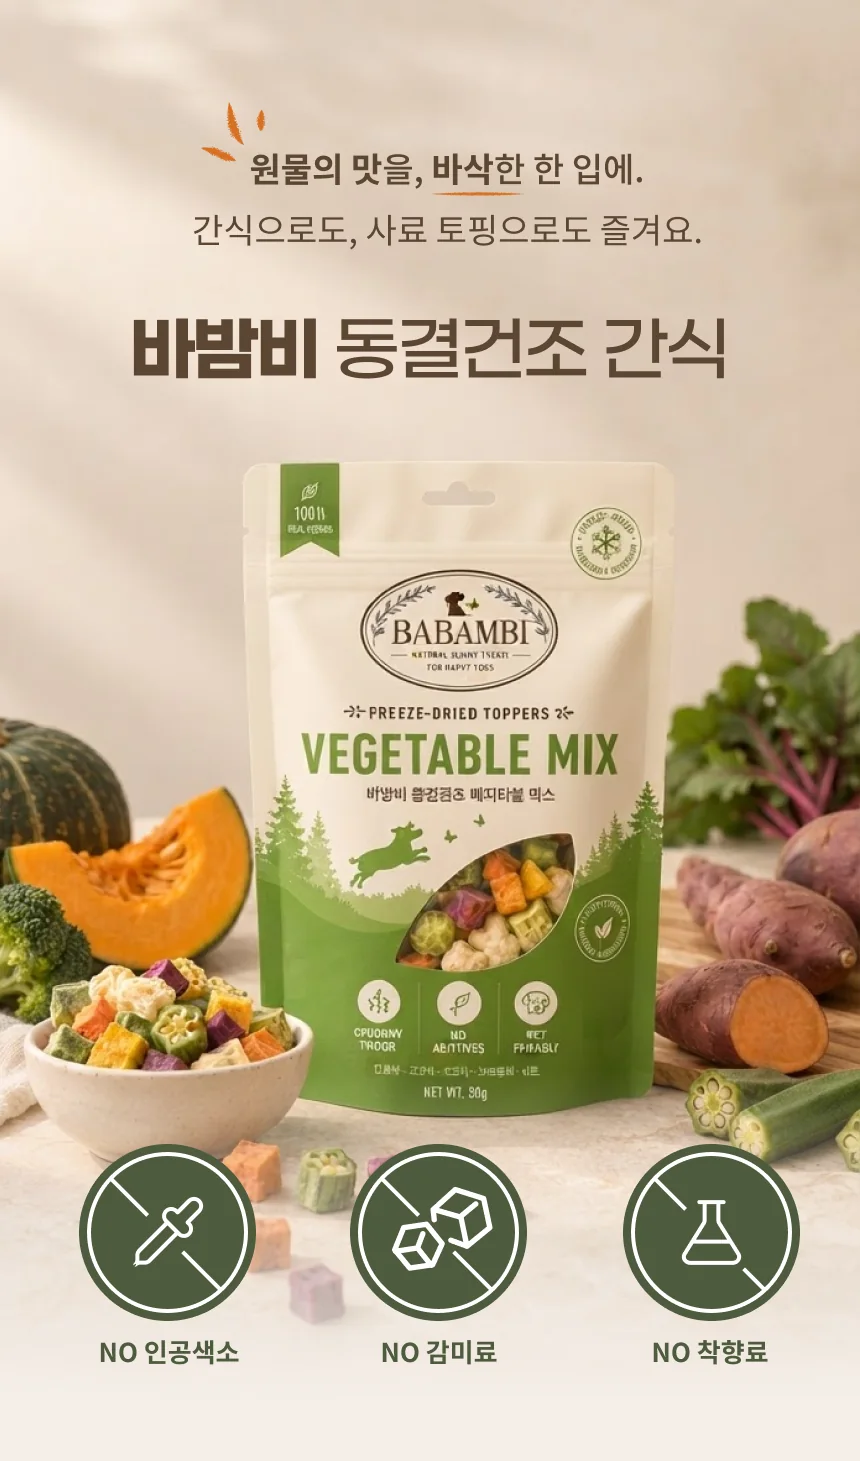
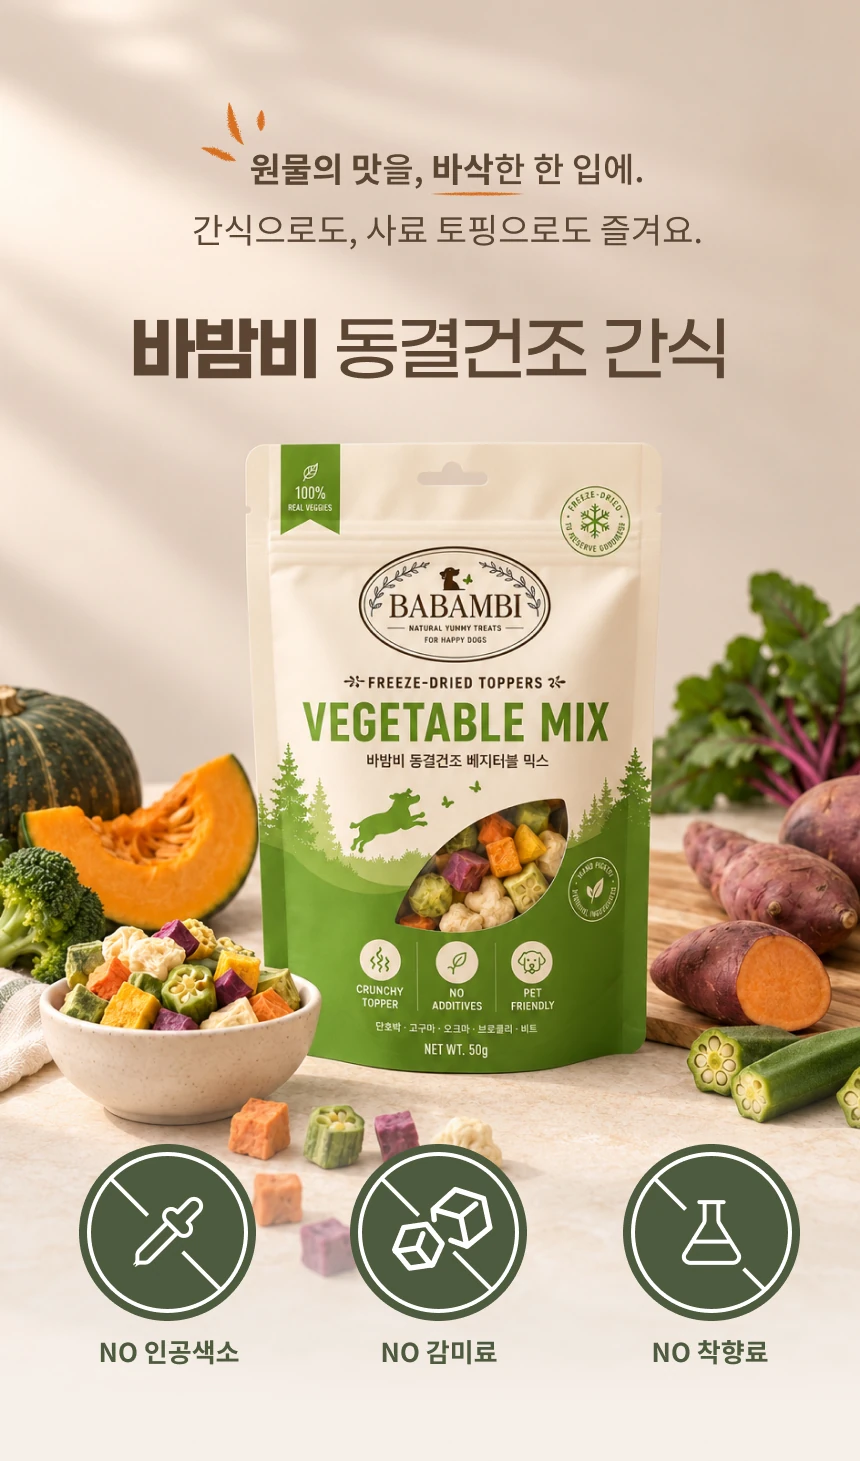
바밤비 디자인 히어로 교체, 쇼핑몰 프로젝트를 목록 앞으로, 4개 상세에 목표·결과 라벨 정리

Changed region(s): [[0.0, 0.308, 1.0, 0.924], [0.3023, 0.2772, 0.4233, 0.4312]]

diff --git a/index.html b/index.html
@@ -99,8 +99,30 @@
           <div class="work-list-view">
           <ol class="work-list">
             <li data-group="PRO">
-              <a class="work-row" href="work-ditoland.html" data-thumb="assets/cover-ditoland.webp">
+              <a class="work-row" href="work-13months.html" data-thumb="assets/cover-13months.webp">
                 <span class="wr-no">01</span>
+                <span class="wr-thumb" aria-hidden="true"><img src="assets/cover-13months.webp" alt="" loading="lazy" /></span>
+                <span class="wr-main"><span class="wr-name">13 MONTHS</span></span>
+                <span class="wr-org">Freelance</span>
+                <span class="wr-field">Branding · Cafe24</span>
+                <span class="wr-year">2026</span>
+                <span class="wr-go" aria-hidden="true">→</span>
+              </a>
+            </li>
+            <li data-group="SELF">
+              <a class="work-row" href="work-babambi.html" data-thumb="assets/babambi/cover_babambi.webp">
+                <span class="wr-no">02</span>
+                <span class="wr-thumb" aria-hidden="true"><img src="assets/babambi/cover_babambi.webp" alt="" loading="lazy" /></span>
+                <span class="wr-main"><span class="wr-name">BABAMBI</span><span class="wr-purpose">브랜드 런칭 전 과정</span></span>
+                <span class="wr-org">Personal</span>
+                <span class="wr-field">Branding · SNS Content</span>
+                <span class="wr-year">2026</span>
+                <span class="wr-go" aria-hidden="true">→</span>
+              </a>
+            </li>
+            <li data-group="PRO">
+              <a class="work-row" href="work-ditoland.html" data-thumb="assets/cover-ditoland.webp">
+                <span class="wr-no">03</span>
                 <span class="wr-thumb" aria-hidden="true"><img src="assets/cover-ditoland.webp" alt="" loading="lazy" /></span>
                 <span class="wr-main"><span class="wr-name">DITOLAND</span></span>
                 <span class="wr-org">UTPLUS</span>
@@ -111,7 +133,7 @@
             </li>
             <li data-group="PRO">
               <a class="work-row" href="work-ont-kiosk.html" data-thumb="assets/cover-ont.webp">
-                <span class="wr-no">02</span>
+                <span class="wr-no">04</span>
                 <span class="wr-thumb" aria-hidden="true"><img src="assets/cover-ont.webp" alt="" loading="lazy" /></span>
                 <span class="wr-main"><span class="wr-name">ONT KIOSK</span></span>
                 <span class="wr-org">RTBS</span>
@@ -122,7 +144,7 @@
             </li>
             <li data-group="PRO">
               <a class="work-row" href="work-kiosk.html" data-thumb="assets/cover-navyz.webp">
-                <span class="wr-no">03</span>
+                <span class="wr-no">05</span>
                 <span class="wr-thumb" aria-hidden="true"><img src="assets/cover-navyz.webp" alt="" loading="lazy" /></span>
                 <span class="wr-main"><span class="wr-name">KIOSK SYSTEM</span></span>
                 <span class="wr-org">RTBS</span>
@@ -133,7 +155,7 @@
             </li>
             <li data-group="PRO">
               <a class="work-row" href="work-orderweb.html" data-thumb="assets/cover-tomntoms.webp">
-                <span class="wr-no">04</span>
+                <span class="wr-no">06</span>
                 <span class="wr-thumb" aria-hidden="true"><img src="assets/cover-tomntoms.webp" alt="" loading="lazy" /></span>
                 <span class="wr-main"><span class="wr-name">ORDER WEB</span></span>
                 <span class="wr-org">RTBS</span>
@@ -144,7 +166,7 @@
             </li>
             <li data-group="PRO">
               <a class="work-row" href="work-nz-system.html" data-thumb="assets/cover-nz.webp">
-                <span class="wr-no">05</span>
+                <span class="wr-no">07</span>
                 <span class="wr-thumb" aria-hidden="true"><img src="assets/cover-nz.webp" alt="" loading="lazy" /></span>
                 <span class="wr-main"><span class="wr-name">NZ SYSTEM</span></span>
                 <span class="wr-org">RTBS</span>
@@ -153,35 +175,13 @@
                 <span class="wr-go" aria-hidden="true">→</span>
               </a>
             </li>
-            <li data-group="PRO">
-              <a class="work-row" href="work-13months.html" data-thumb="assets/cover-13months.webp">
-                <span class="wr-no">06</span>
-                <span class="wr-thumb" aria-hidden="true"><img src="assets/cover-13months.webp" alt="" loading="lazy" /></span>
-                <span class="wr-main"><span class="wr-name">13 MONTHS</span></span>
-                <span class="wr-org">Freelance</span>
-                <span class="wr-field">Branding · Cafe24</span>
-                <span class="wr-year">2026</span>
-                <span class="wr-go" aria-hidden="true">→</span>
-              </a>
-            </li>
             <li data-group="SELF">
               <a class="work-row" href="work-unsu.html" data-thumb="assets/cover-unsu.webp">
-                <span class="wr-no">07</span>
+                <span class="wr-no">08</span>
                 <span class="wr-thumb" aria-hidden="true"><img src="assets/cover-unsu.webp" alt="" loading="lazy" /></span>
                 <span class="wr-main"><span class="wr-name">UNSU</span><span class="wr-purpose">재방문 서비스 기획</span></span>
                 <span class="wr-org">Personal</span>
                 <span class="wr-field">Service Planning · Mobile Web App</span>
-                <span class="wr-year">2026</span>
-                <span class="wr-go" aria-hidden="true">→</span>
-              </a>
-            </li>
-            <li data-group="SELF">
-              <a class="work-row" href="work-babambi.html" data-thumb="assets/babambi/cover_babambi.webp">
-                <span class="wr-no">08</span>
-                <span class="wr-thumb" aria-hidden="true"><img src="assets/babambi/cover_babambi.webp" alt="" loading="lazy" /></span>
-                <span class="wr-main"><span class="wr-name">BABAMBI</span><span class="wr-purpose">브랜드 런칭 전 과정</span></span>
-                <span class="wr-org">Personal</span>
-                <span class="wr-field">Branding · SNS Content</span>
                 <span class="wr-year">2026</span>
                 <span class="wr-go" aria-hidden="true">→</span>
               </a>

diff --git a/work-babambi.html b/work-babambi.html
@@ -53,7 +53,7 @@
 
       <section class="case-brief" aria-label="프로젝트 개요">
         <div class="brief-cell">
-          <h2>Overview</h2>
+          <h2>Goal</h2>
           <p>
             반려동물 간식이라는 포화된 시장에서, 제품이 아니라 &lsquo;먹이는 사람의
             마음&rsquo;을 앞에 두는 브랜드로 만들었습니다.
@@ -67,11 +67,11 @@
           </p>
         </div>
         <div class="brief-cell">
-          <h2>Build</h2>
+          <h2>Result</h2>
           <p>
-            랜딩 · 브랜드 스토리 · 제품 목록 · 제품 상세 · 레시피 · 이벤트 섹션.
-            한 페이지에서 스크롤로 이어지는 구조로 만들었습니다.
-            스토어 문의를 처리하는 CS 대시보드도 따로 만들었습니다.
+            랜딩 · 브랜드 스토리 · 제품 목록 · 제품 상세 · 레시피 · 이벤트 섹션을
+            한 페이지에서 스크롤로 이어지게 완성했고, 스토어 문의를 처리하는
+            CS 대시보드도 따로 만들었습니다.
           </p>
         </div>
         <div class="brief-cell">
@@ -393,11 +393,11 @@
       </section>
 
       <!-- 다음 프로젝트가 화면 가득 등장해 계속 보게 만든다. -->
-      <a class="case-next" href="work-lucent.html">
-        <img src="assets/cover-lucent.webp" alt="" />
+      <a class="case-next" href="work-ditoland.html">
+        <img src="assets/cover-ditoland.webp" alt="" />
         <div class="case-next-inner">
-          <span class="meta case-next-label">NEXT PROJECT — 09</span>
-          <span class="case-next-title">LUCENT</span>
+          <span class="meta case-next-label">NEXT PROJECT — 03</span>
+          <span class="case-next-title">DITOLAND</span>
         </div>
       </a>
     </article>

diff --git a/work-13months.html b/work-13months.html
@@ -57,7 +57,7 @@
 
       <section class="case-brief" aria-label="프로젝트 개요">
         <div class="brief-cell">
-          <h2>Overview</h2>
+          <h2>Goal</h2>
           <p>
             꽃집 사이트를 커머스로만 만들지 않고, 계절마다 달라지는 작업을
             아카이브처럼 쌓아 보여주는 구조로 만들었습니다.
@@ -71,10 +71,10 @@
           </p>
         </div>
         <div class="brief-cell">
-          <h2>Build</h2>
+          <h2>Result</h2>
           <p>
-            메인 · 갤러리(STYLE) · 이벤트 · 클래스 · 서비스 · 브랜드 소개.
-            데스크톱과 모바일 두 화면으로 각각.
+            메인 · 갤러리(STYLE) · 이벤트 · 클래스 · 서비스 · 브랜드 소개를
+            데스크톱과 모바일 두 화면으로 구현해, 실제 운영 중인 사이트에 적용했습니다.
           </p>
         </div>
         <div class="brief-cell">
@@ -302,11 +302,11 @@
         </div>
       </section>
 
-      <a class="case-next" href="work-unsu.html">
-        <img src="assets/cover-unsu.webp" alt="" />
+      <a class="case-next" href="work-babambi.html">
+        <img src="assets/babambi/cover_babambi.webp" alt="" />
         <div class="case-next-inner">
-          <span class="meta case-next-label">NEXT PROJECT — 07</span>
-          <span class="case-next-title">UNSU</span>
+          <span class="meta case-next-label">NEXT PROJECT — 02</span>
+          <span class="case-next-title">BABAMBI</span>
         </div>
       </a>
     </article>

diff --git a/work-goyo.html b/work-goyo.html
@@ -53,7 +53,7 @@
 
       <section class="case-brief" aria-label="프로젝트 개요">
         <div class="brief-cell">
-          <h2>Overview</h2>
+          <h2>Goal</h2>
           <p>
             예약 시스템을 포함한 웹사이트를 기획하고 피그마로 디자인 시안을 만들어서 퍼블리싱까지 혼자 진행했습니다. 브랜드 아이덴티티를 담은 로고와 컬러, 타이포그래피를 정하고, 웹사이트의 구조와 흐름을 설계했습니다.
           </p>
@@ -66,7 +66,7 @@
           </p>
         </div>
         <div class="brief-cell">
-          <h2>Build</h2>
+          <h2>Result</h2>
           <p>
             메인 · 객실 · 서비스 · 예약 · 오시는 길 페이지를 포함한 웹사이트를 제작했습니다.
             pc화면과 모바일 화면을 모두 반응형으로 구현했습니다. 예약 달력과 금액 계산, 객실 이미지 탐색 등 인터랙션을 포함했습니다.

diff --git a/work-lucent.html b/work-lucent.html
@@ -53,7 +53,7 @@
 
       <section class="case-brief" aria-label="프로젝트 개요">
         <div class="brief-cell">
-          <h2>Overview</h2>
+          <h2>Goal</h2>
           <p>
             웹 표준과 웹 접근성을 고려한 마크업, SCSS 활용, 국문·영문 전환,
             AI 영상과 채팅 상담까지. 병원 홈페이지에 필요한 요소를 직접 설계하고
@@ -68,7 +68,7 @@
           </p>
         </div>
         <div class="brief-cell">
-          <h2>Build</h2>
+          <h2>Result</h2>
           <p>
             메인을 포함한 8개 화면을 국문·영문으로 각각 구성했습니다.
             진료 안내 · 전후 비교 · 공간 · 저널, 그리고 채팅 상담.

diff --git a/work-unsu.html b/work-unsu.html
@@ -298,11 +298,11 @@
         </div>
       </section>
 
-      <a class="case-next" href="work-babambi.html">
-        <img src="assets/cover-babambi.webp" alt="" />
+      <a class="case-next" href="work-lucent.html">
+        <img src="assets/cover-lucent.webp" alt="" />
         <div class="case-next-inner">
-          <span class="meta case-next-label">NEXT PROJECT — 08</span>
-          <span class="case-next-title">BABAMBI</span>
+          <span class="meta case-next-label">NEXT PROJECT — 09</span>
+          <span class="case-next-title">LUCENT</span>
         </div>
       </a>
     </article>

diff --git a/work-nz-system.html b/work-nz-system.html
@@ -233,11 +233,11 @@
         </div>
       </section>
 
-      <a class="case-next" href="work-13months.html">
-        <img src="assets/cover-13months.webp" alt="" />
+      <a class="case-next" href="work-unsu.html">
+        <img src="assets/cover-unsu.webp" alt="" />
         <div class="case-next-inner">
-          <span class="meta case-next-label">NEXT PROJECT — 06</span>
-          <span class="case-next-title">13 MONTHS</span>
+          <span class="meta case-next-label">NEXT PROJECT — 08</span>
+          <span class="case-next-title">UNSU</span>
         </div>
       </a>
     </article>

diff --git a/work-portfolio.html b/work-portfolio.html
@@ -256,11 +256,11 @@
         </div>
       </section>
 
-      <a class="case-next" href="work-ditoland.html">
-        <img src="assets/cover-ditoland.webp" alt="" />
+      <a class="case-next" href="work-13months.html">
+        <img src="assets/cover-13months.webp" alt="" />
         <div class="case-next-inner">
           <span class="meta case-next-label">BACK TO START — 01</span>
-          <span class="case-next-title">DITOLAND</span>
+          <span class="case-next-title">13 MONTHS</span>
         </div>
       </a>
     </article>

diff --git a/work-kiosk.html b/work-kiosk.html
@@ -182,7 +182,7 @@
       <a class="case-next" href="work-orderweb.html">
         <img src="assets/cover-tomntoms.webp" alt="" />
         <div class="case-next-inner">
-          <span class="meta case-next-label">NEXT PROJECT — 04</span>
+          <span class="meta case-next-label">NEXT PROJECT — 06</span>
           <span class="case-next-title">ORDER WEB</span>
         </div>
       </a>

diff --git a/work-ont-kiosk.html b/work-ont-kiosk.html
@@ -168,7 +168,7 @@
       <a class="case-next" href="work-kiosk.html">
         <img src="assets/cover-navyz.webp" alt="" />
         <div class="case-next-inner">
-          <span class="meta case-next-label">NEXT PROJECT — 03</span>
+          <span class="meta case-next-label">NEXT PROJECT — 05</span>
           <span class="case-next-title">KIOSK SYSTEM</span>
         </div>
       </a>

diff --git a/work-ditoland.html b/work-ditoland.html
@@ -198,7 +198,7 @@
       <a class="case-next" href="work-ont-kiosk.html">
         <img src="assets/cover-ont.webp" alt="" />
         <div class="case-next-inner">
-          <span class="meta case-next-label">NEXT PROJECT — 02</span>
+          <span class="meta case-next-label">NEXT PROJECT — 04</span>
           <span class="case-next-title">ONT KIOSK</span>
         </div>
       </a>

diff --git a/work-orderweb.html b/work-orderweb.html
@@ -196,7 +196,7 @@
       <a class="case-next" href="work-nz-system.html">
         <img src="assets/cover-nz.webp" alt="" />
         <div class="case-next-inner">
-          <span class="meta case-next-label">NEXT PROJECT — 05</span>
+          <span class="meta case-next-label">NEXT PROJECT — 07</span>
           <span class="case-next-title">NZ SYSTEM</span>
         </div>
       </a>
